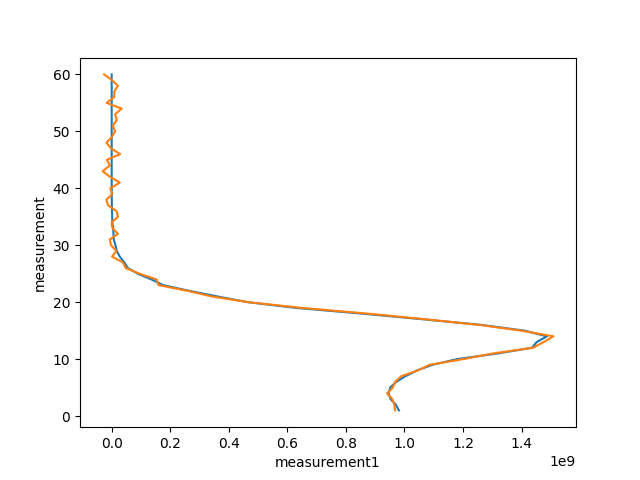
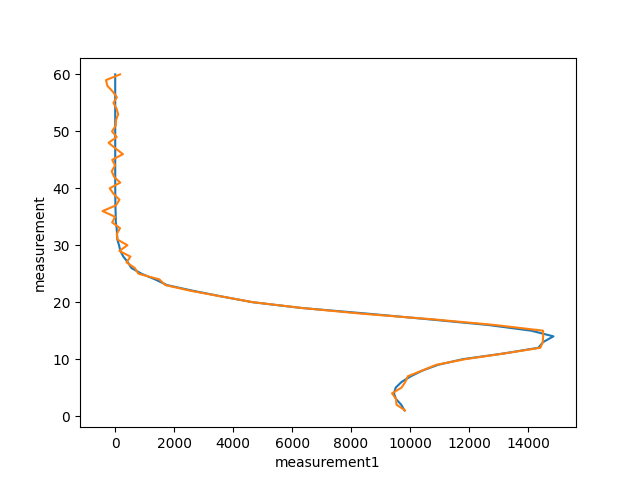
plotted singular vectors

diff --git a/main.py b/main.py
@@ -34,9 +34,9 @@ N_A = constants.Avogadro # in mol^-1
 k_b_cgs = constants.Boltzmann * 1e7#in J K^-1
 R_gas = N_A * k_b_cgs # in ..cm^3
 
-plt.plot(pressure_values, height_values)
-#plt.plot(VMR_O3, height_values)
-plt.show()
+# plt.plot(pressure_values, height_values)
+# #plt.plot(VMR_O3, height_values)
+# plt.show()
 
 temp_values = get_temp_values(height_values)
 x = VMR_O3 * N_A * pressure_values /(R_gas * temp_values)#* 1e-13
@@ -156,17 +156,17 @@ meas_ang = np.linspace(min_ang+(max_ang-min_ang)/4, max_ang-(max_ang-min_ang)/4,
 meas_ang = np.linspace(min_ang, max_ang, num_meas)
 
 # in cm but Ax is cgs
-Ax, A ,x = gen_measurement(meas_ang, height_values, w_cross, VMR_O3, pressure_values ,temp_values, Source)
+Ax, A ,x, tang_heights = gen_measurement(meas_ang, height_values, w_cross, VMR_O3, pressure_values ,temp_values, Source)
 #get tangent height for each measurement
-tang_height = np.around((np.sin(meas_ang) * (obs_height + R) ) -R,2)
+#tang_height = np.around((np.sin(meas_ang) * (obs_height + R) ) -R,2)
 
-
+num_meas = len(A)
 #to test that we have the same dr distances
 tot_r = np.zeros(num_meas)
 #calculate total length
 for j in range(0,num_meas):
     # np.sqrt( (obs_height + R)**2 - (tang_height[j] + R )**2 ) -
-    tot_r[j] = np.sqrt( (height_values[-1] + R)**2 - (tang_height[j] + R )**2 )
+    tot_r[j] = np.sqrt( (height_values[-1] + R)**2 - (tang_heights[j] + R )**2 )
 
 
 
@@ -254,18 +254,35 @@ for j in range(1,len(x)-1):
 # plt.show()
 #analyse forward map
 
-AC = A[:,1:-1]
-ATA = np.matmul(AC.T,AC)
+Amodi = A[0:-1,0:-1]
+ATA = np.matmul(Amodi.T,Amodi)
 #D = np.identity(len(ATA)) * np.diag(ATA)
 #D_inv = np.linalg.inv(D)
-Au, As, Avh = np.linalg.svd(AC)
+Au, As, Avh = np.linalg.svd(A)
 ATAu, ATAs, ATAvh = np.linalg.svd(ATA)
 fig3,ax  = plt.subplots()
 ax.set_yscale('log')
-plt.plot(range(0,len(ATAs)),np.log(ATAs))
-plt.plot(range(0,len(As)),np.log(As))
+plt.scatter(range(0,len(ATAs)),ATAs)
+#plt.scatter(range(0,len(As)),np.log(As))
 plt.show()
 
+
+
+cond_A = np.linalg.cond(A)
+print("Cond A: " + str(orderOfMagnitude(cond_A)))
+
+fig, axs = plt.subplots()
+#axs.set_title('left SV')
+# for i in range(10):
+#     axs.plot(ATAu[:,i], label= f"ATAu{i}")
+
+for i in range(len(ATAs)):
+    axs.plot(ATAs[i]*ATAu[:, i], label=f"ATAu{i}")
+    plt.text(len(ATAs)-1,ATAs[i]*ATAu[-1, i],f"ATAu{i}")
+#axs.legend()
+
+
+plt.show()
 
 #first guesses
 gamma = 0.01 * max(Ax)
@@ -275,40 +292,29 @@ eta = 1/ (2 * np.mean(vari[2:-3]))
 
 L = generate_L(neigbours)
 #number is approx 130 so 10^2
-C = np.matmul(AC.T, AC)
+C = np.matmul(A.T, A)
 #B is symmetric and positive semidefinite and normal
-B = (C - 1e14 * L[1:-1,1:-1]) #* 1e-14eta/gamma
+B = (C - eta/gamma * L) #* 1e-14eta/gamma
+Bu, Bs, Bvh = np.linalg.svd(B)
 #condition number for B
 cond_B = np.linalg.cond(B)
 print("normal: " + str(orderOfMagnitude(cond_B)))
 
-#try to lower condtion number with jacobi
-D = np.identity(len(B)) * np.diag(B)
-D_inv = np.linalg.inv(D)
+fig4,ax  = plt.subplots()
+ax.set_yscale('log')
 
-B_new = np.matmul(np.sqrt(D_inv),np.matmul(B,np.sqrt(D_inv)))
-cond_B_new = np.linalg.cond(B_new)
-print("new: " + str(orderOfMagnitude(cond_B_new)))
+plt.scatter(range(0,len(As)),np.log(Bs))
+plt.show()
 
 
-B_new = np.matmul(D_inv,B)
-cond_B_new = np.linalg.cond(B_new)
-print("new2: " + str(orderOfMagnitude(cond_B_new)))
-### try to get the cond number low
-A2 = A * 1e-8 # 1e-11 then I get a cond of 1e4
-L2 = L#[0:-1,0:-1]
-B2 = (np.matmul(A2.T  , A2 ) - eta/gamma * L2)
-#condition number for B
-cond_B2 = np.linalg.cond(B2)
-print("normal: " + str(orderOfMagnitude(cond_B2)))
 #qr facorization decomposition
-Q2,R2 = np.linalg.qr(B2)
-detR2 = np.prod(np.diag(R2))
-B2_inv = np.matmul(np.linalg.inv(R2) , Q2.T)
+Q,R = np.linalg.qr(B)
+detR = np.prod(np.diag(R)* 1e-18)
+B_inv = np.matmul(np.linalg.inv(R) , Q.T)
 
 #check if B2^-1 B2 == 1
-TEST = np.matmul(B2, B2_inv)
-print(np.allclose(np.identity(len(B2)) ,TEST))#, atol = 1e-4))
+TEST = np.matmul(B, B_inv)
+print(np.allclose(np.identity(len(B)) ,TEST))#, atol = 1e-4))
 
 # taylor expansion for f and g
 

diff --git a/functions.py b/functions.py
@@ -61,17 +61,17 @@ def gen_measurement(meas_ang, layers, w_cross, VMR_O3, P ,T, Source, obs_height 
     obs_height is given in km
     '''
 
-    num_meas = len(meas_ang)
-    R = 6371
-    # get tangent height for each measurement
-    tang_height = np.around((np.sin(meas_ang) * (obs_height + R)) - R, 2)
 
+    R = 6371
+    # get tangent height for each measurement layers[0:-1] #
+    tang_height = np.around((np.sin(meas_ang) * (obs_height + R)) - R, 2)
+    num_meas = len(tang_height)
     # get dr's for measurements of different layers
     A_height = np.zeros((num_meas, len(layers) - 1))
     t = 1
     for m in range(0, num_meas):
 
-        while (layers[t - 1] <= tang_height[m] < layers[t]) == 0:
+        while (layers[t-1] <= tang_height[m] < layers[t]) == 0:
             t += 1
         # first dr
         A_height[m, t - 1] = np.sqrt((layers[t] + R) ** 2 - (tang_height[m] + R) ** 2)
@@ -87,7 +87,9 @@ def gen_measurement(meas_ang, layers, w_cross, VMR_O3, P ,T, Source, obs_height 
     num_mole = (P / (constants.Boltzmann * 1e7  * T))
 
     THETA = (num_mole * w_cross * VMR_O3 * Source)
-    return  2 * np.matmul(A_height*1e5, THETA[1::]), 2*A_height*1e5, THETA[1::]
+    #2 * A_height * 1e5....2 * np.matmul(A_height*1e5, THETA[1::]) A_height in km
+    #* 1e5 converts to cm
+    return  2 * np.matmul(A_height, THETA[1::]), 2*A_height, THETA[1::] , tang_height
 
 def add_noise(Ax, percent, max_value):
     return Ax + np.random.normal(0, percent * max_value, (len(Ax),1))
